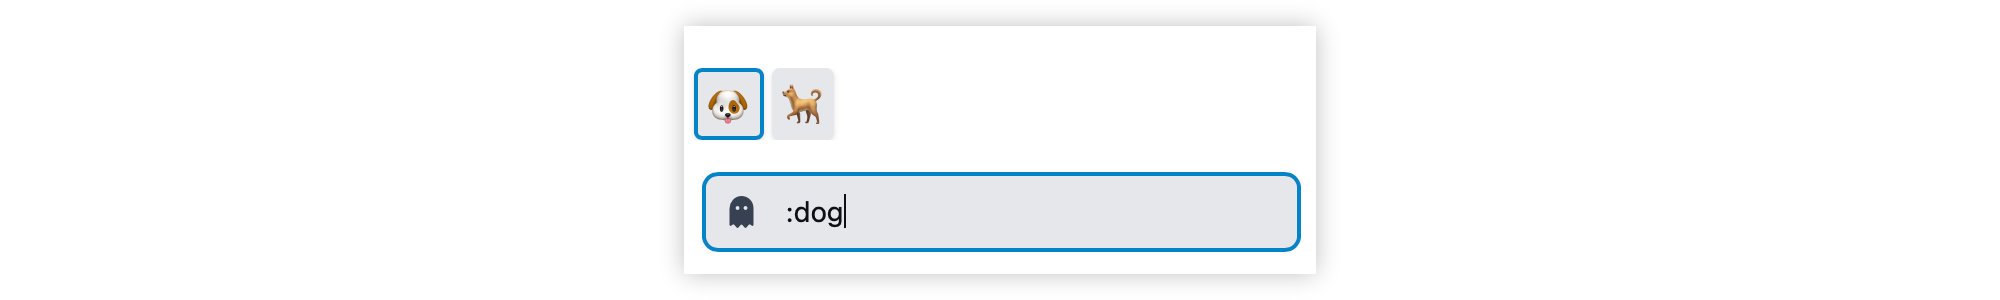
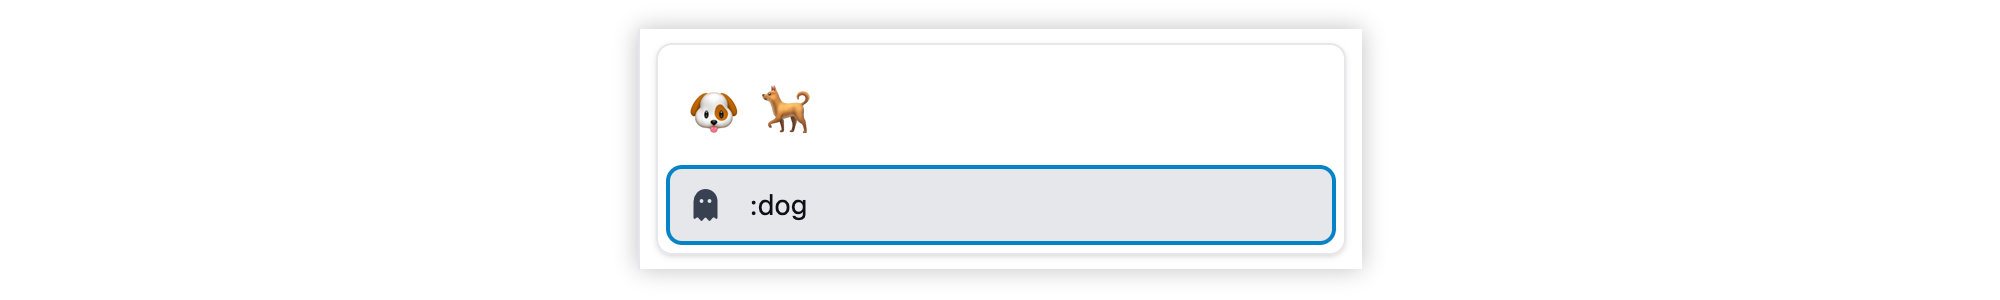
Minor bugs and documentation image update (#367)
* Fix emoji userlist interplay

* Update emoji doc image

* Fix course page row breaks

Changed region(s): [[0.31, 0.21, 0.682, 0.93], [0.341, 0.06, 0.682, 0.15]]

diff --git a/web/ts/chat/Chat.ts b/web/ts/chat/Chat.ts
@@ -139,6 +139,7 @@ export class Chat {
                     break;
                 }
                 default: {
+                    this.emojis.getEmojisForMessage(e.target.value, e.target.selectionStart);
                     return;
                 }
             }
@@ -154,6 +155,7 @@ export class Chat {
                     break;
                 }
                 default: {
+                    this.users.filterUsers(e.target.value, e.target.selectionStart);
                     return;
                 }
             }
